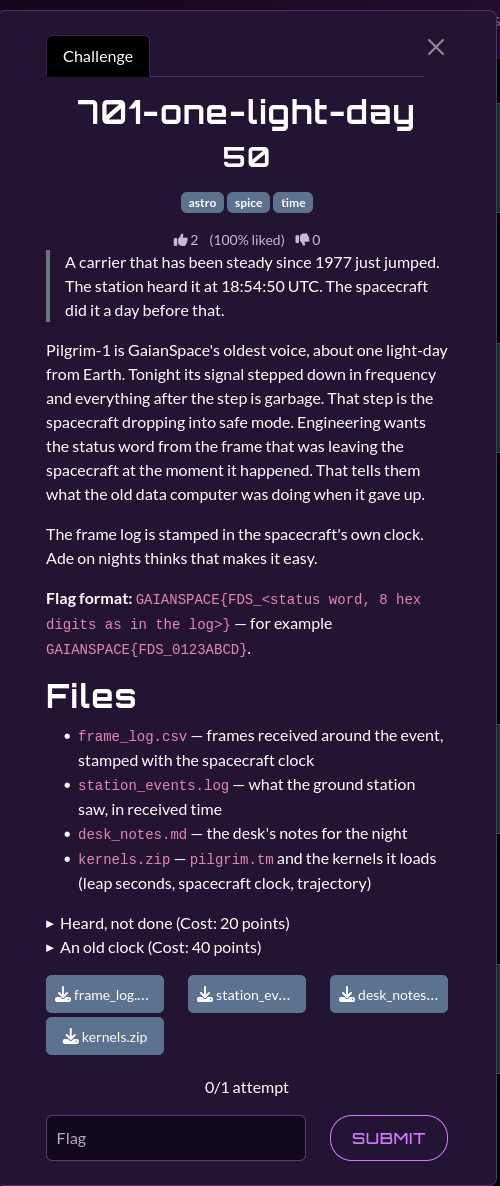
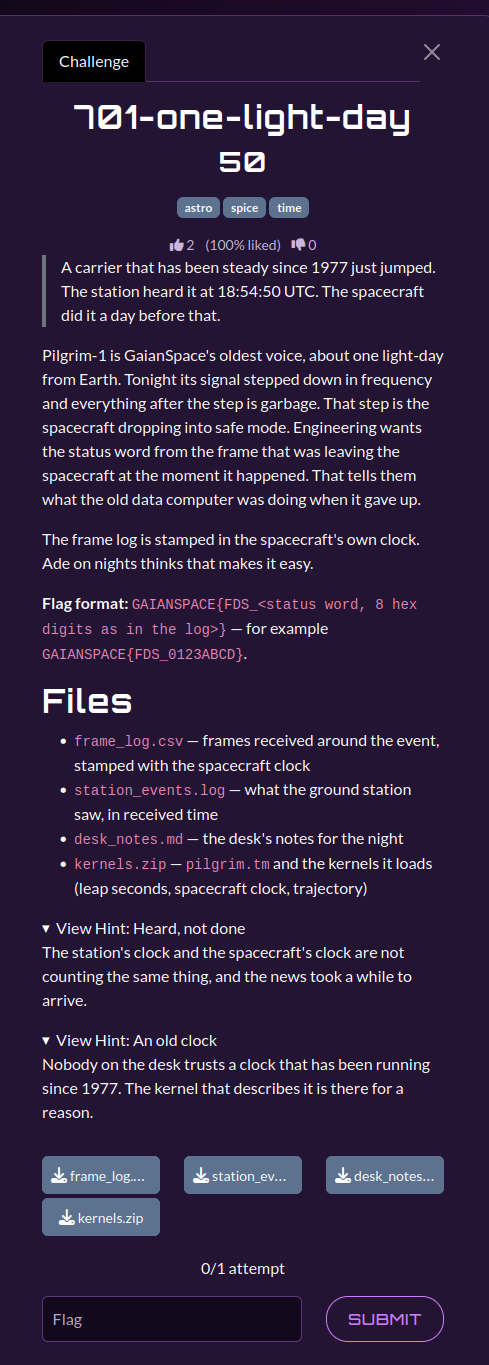
Update README.md

diff --git a/07-unscheduled-passes/703-lagrange-fix/README.md b/07-unscheduled-passes/703-lagrange-fix/README.md
@@ -20,6 +20,13 @@ Engineering needs one number: how far the receiver's clock is from true time.
 - `ssps_receiver_log.csv` — the receiver's snapshots: its own clock, and the stamp of each beacon's pulse arriving at that moment
 - `ssps_almanac.md` — how the service defines a beacon's position, and this month's bulletins
 
+## Hints
+
+Two hints were released during the event:
+
+1. **A day on the road** — Every pulse in the log is about a day old when it arrives. The beacons did not sit still while it travelled.
+2. **One voice out of tune** — Seven of the eight agree with each other. Let the residuals tell you which one does not.
+
 ## Solution
 
 ### Steps

diff --git a/07-unscheduled-passes/701-one-light-day/README.md b/07-unscheduled-passes/701-one-light-day/README.md
@@ -22,6 +22,13 @@ The frame log is stamped in the spacecraft's own clock. Ade on nights thinks tha
 - `desk_notes.md` — the desk's notes for the night
 - `kernels.zip` — pilgrim.tm and the kernels it loads (leap seconds, spacecraft clock, trajectory)
 
+## Hints
+
+Two hints were released during the event:
+
+1. **Heard, not done** — The station's clock and the spacecraft's clock are not counting the same thing, and the news took a while to arrive.
+2. **An old clock** — Nobody on the desk trusts a clock that has been running since 1977. The kernel that describes it is there for a reason.
+
 ## Solution
 
 ### Steps

diff --git a/07-unscheduled-passes/704-dead-chip/README.md b/07-unscheduled-passes/704-dead-chip/README.md
@@ -21,6 +21,13 @@ The desk has the 1977 ground copy of the memory, the handbook, and a bench model
 - `fds_sim.py` — the ground's bench model of the machine
 - `fds_handbook.md` — the instruction set, the 1977 memory map, and the load history
 
+## Hints
+
+Two hints were released during the event:
+
+1. **Not every door is a call** — Something outside the bank reaches into it without a `JSR`. Find every way in before you move anything.
+2. **Free since when** — The map was drawn before the last time somebody squeezed something in. Look at what is in memory, not at what the map promises.
+
 ## Solution
 
 ### Steps

diff --git a/07-unscheduled-passes/705-last-readout/README.md b/07-unscheduled-passes/705-last-readout/README.md
@@ -26,6 +26,13 @@ Find the words that Pilgrim-1 itself has lost.
 - `fds_sim.py` — the ground's bench model of the machine
 - `fds_handbook.md` — the instruction set, the memory map and the load history
 
+## Hints
+
+Two hints were released during the event:
+
+1. **Hint 1** — Same mistake twice. The link makes a different mistake every time. The spacecraft makes the same one every time.
+2. **Hint 2** — It writes too. Not every word that changed is broken. The machine changes some of its own memory every cycle.
+
 ## Solution
 
 ### 1. Restore the frame payloads

diff --git a/07-unscheduled-passes/702-concatenated/README.md b/07-unscheduled-passes/702-concatenated/README.md
@@ -20,6 +20,13 @@ Somewhere in the readout the computer signs its name.
 - `pilgrim_symbols.s8` — the raw received symbols, signed 8-bit
 - `coding_sheet.md` — what is left of the handbook page on the coding
 
+## Hints
+
+Two hints were released during the event:
+
+1. **Not just yes or no** — Every sample says how sure the receiver was, not only which way it leaned. Throwing that away costs more than this link can afford.
+2. **Four at a time** — The outer code never sees the bytes in the order they arrived.
+
 ## Solution
 
 ### Steps
